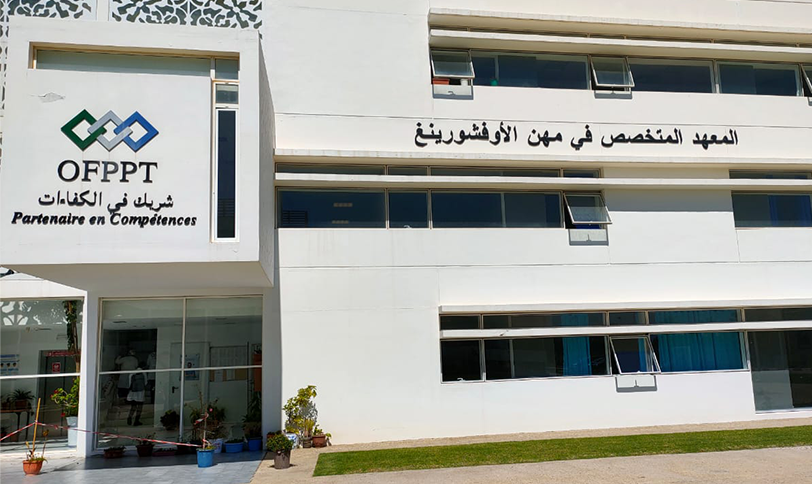
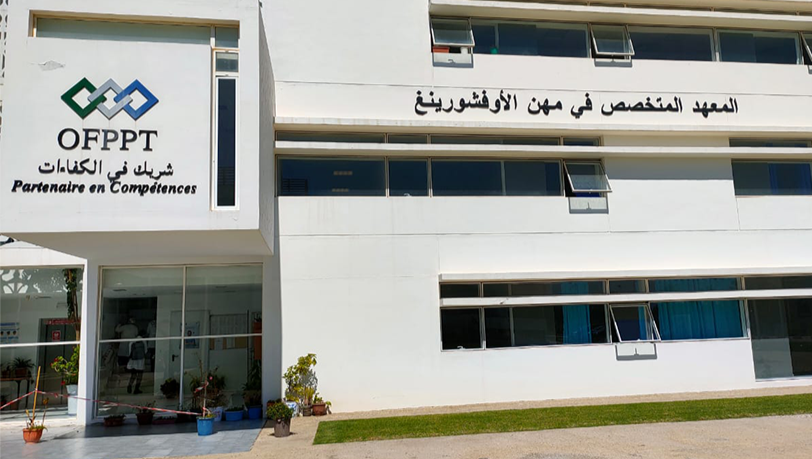
update

diff --git a/index.html b/index.html
@@ -67,7 +67,54 @@
         <a href="#sec-3"
           ><button class="btn btn-primary">Plus d'infos</button></a
         >
-        <img src="assets/images/img-1.png" class="d-block mx-auto img-fluid" />
+        <!-- <img src="assets/images/img-1.png" class="d-block mx-auto img-fluid" /> -->
+        <div
+          id="carouselExample"
+          class="carousel slide"
+          data-bs-ride="carousel"
+        >
+          <div class="carousel-inner">
+            <div class="carousel-item active">
+              <img
+                src="assets/images/img-1.png"
+                alt="Image 1"
+                class="img-fluid"
+              />
+            </div>
+            <div class="carousel-item">
+              <img
+                src="assets/images/img-2.png"
+                alt="Image 2"
+                class="img-fluid"
+              />
+            </div>
+            <div class="carousel-item">
+              <img
+                src="assets/images/img-3.png"
+                alt="Image 3"
+                class="img-fluid"
+              />
+            </div>
+          </div>
+          <!-- Carousel Controls -->
+          <button
+            class="carousel-control-prev"
+            type="button"
+            data-bs-target="#carouselExample"
+            data-bs-slide="prev"
+          >
+            <span class="carousel-control-prev-icon" aria-hidden="true"></span>
+          </button>
+          <button
+            class="carousel-control-next"
+            type="button"
+            data-bs-target="#carouselExample"
+            data-bs-slide="next"
+          >
+            <span class="carousel-control-next-icon" aria-hidden="true"></span>
+          </button>
+          </div>
+        </div>
       </section>
 
       <section id="sec-2">
@@ -237,8 +284,9 @@
               <div class="card-body">
                 <h5 class="card-title">City’Zen Challenge</h5>
                 <p class="card-text">
-                  Les stagiaires de l’ISMO Tétouan ont remporté le 2<sup>e</sup> prix du
-                  City’Zen Challenge en 2021 et 2022, deux années consécutives.
+                  Les stagiaires de l’ISMO Tétouan ont remporté le 2<sup>e</sup>
+                  prix du City’Zen Challenge en 2021 et 2022, deux années
+                  consécutives.
                 </p>
               </div>
             </div>
@@ -328,9 +376,7 @@
               </p>
             </div>
             <div class="col-md-2 col-lg-2 col-xl-2 mx-auto mb-4">
-              <p class="text-uppercase fw-bold">
-                LIENS
-              </p>
+              <p class="text-uppercase fw-bold">LIENS</p>
               <p>
                 <a href="#!" class="text-reset">OFPPT</a>
               </p>

diff --git a/assets/css/style.css b/assets/css/style.css
@@ -97,8 +97,8 @@ main {
 }
 
 #sec-1 img {
-  object-fit: cover;
   border-radius: 12px;
+  aspect-ratio: 16/9 !important;
 }
 
 #sec-2 {
